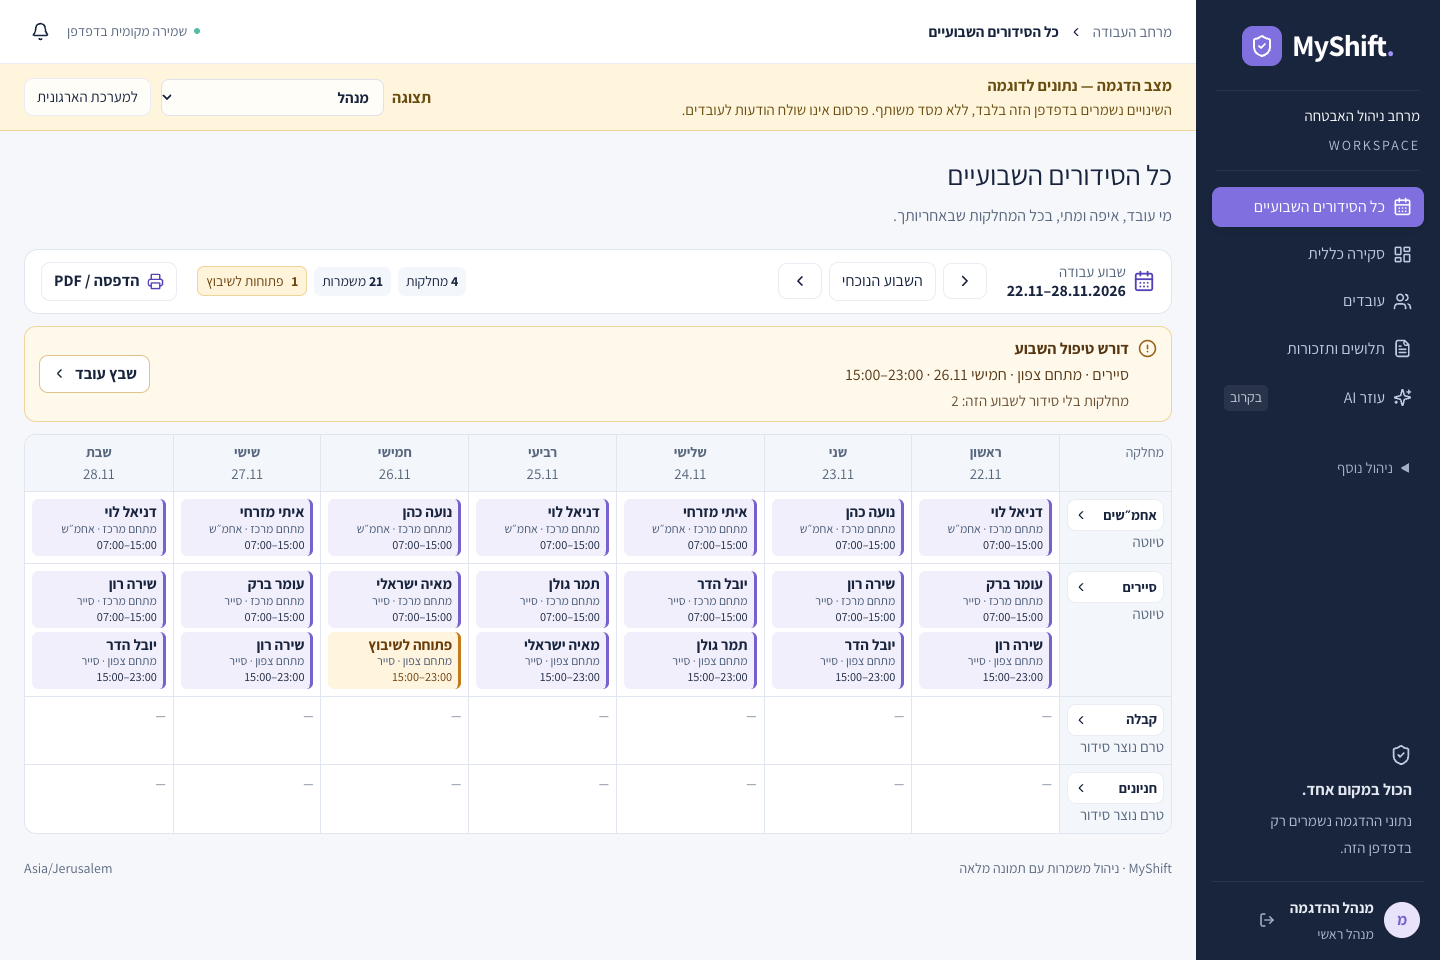
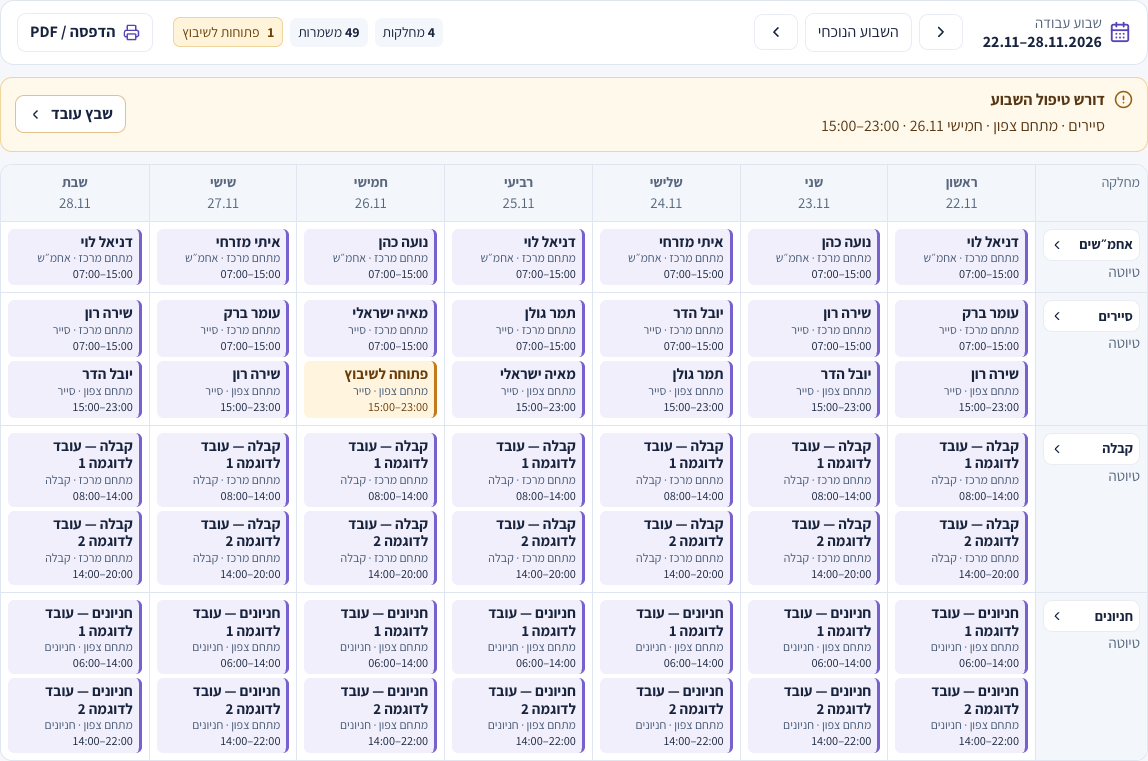
Populate demo schedules for reception and parking

diff --git a/e2e/departments.spec.ts b/e2e/departments.spec.ts
@@ -15,7 +15,10 @@ test("departments isolate workers, templates, custom overnight shifts and public
   await expect(page.locator(".shift select").first()).not.toContainText(
     "דניאל לוי",
   );
-  await tabs.getByRole("tab", { name: "חניונים", exact: true }).click();
+  const parking = page.getByRole("button", { name: "חניונים", exact: true });
+  await page.getByRole("button", { name: "חזרה ללוח השבועי", exact: true }).click();
+  await page.getByRole("button", { name: "השבוע הבא", exact: true }).click();
+  await parking.click();
   await expect(page.locator(".shift")).toHaveCount(0);
   await page.getByRole("button", { name: "הוספת משמרת", exact: true }).click();
   const dialog = page.getByRole("dialog");
@@ -41,12 +44,14 @@ test("departments isolate workers, templates, custom overnight shifts and public
   await expect(page.locator(".shift-time")).toContainText("22:00");
   await page.getByRole("button", { name: "פרסום סידור", exact: true }).click();
   await expect(page.getByText("פורסם", { exact: true })).toBeVisible();
-  await tabs.getByRole("tab", { name: "סיירים", exact: true }).click();
+  await page.getByRole("button", { name: "חזרה ללוח השבועי", exact: true }).click();
+  await page.getByRole("button", { name: "השבוע הנוכחי", exact: true }).click();
+  await page.getByRole("button", { name: "סיירים", exact: true }).click();
   await expect(page.getByText("טיוטה", { exact: true })).toBeVisible();
   await expect(page.locator(".shift")).toHaveCount(14);
   await page.setViewportSize({ width: 390, height: 844 });
   await tabs.getByRole("tab", { name: "קבלה", exact: true }).click();
-  await expect(page.locator(".shift")).toHaveCount(0);
+  await expect(page.locator(".shift")).toHaveCount(14);
   expect(
     await page.evaluate(
       () => document.documentElement.scrollWidth <= innerWidth,
@@ -55,7 +60,7 @@ test("departments isolate workers, templates, custom overnight shifts and public
   await page.screenshot({ path: "work/department-mobile.png", fullPage: true });
   await tabs.getByRole("tab", { name: "חניונים", exact: true }).click();
   await page.reload();
-  await expect(page.locator(".shift")).toHaveCount(1);
+  await expect(page.locator(".shift")).toHaveCount(14);
   await expect(
     page.getByRole("tab", { name: "חניונים", exact: true }),
   ).toHaveAttribute("aria-selected", "true");
@@ -103,6 +108,7 @@ test("managers explicitly configure separate reception hours and day-specific st
     .getByRole("navigation")
     .getByRole("button", { name: "כל הסידורים השבועיים", exact: true })
     .click();
+  await page.getByRole("button", { name: "השבוע הבא", exact: true }).click();
   await page
     .getByRole("region", { name: "לוח שבועי לכל המחלקות" })
     .getByRole("button", { name: "קבלה", exact: true })
@@ -112,7 +118,9 @@ test("managers explicitly configure separate reception hours and day-specific st
     .click();
   await expect(page.locator(".shift")).toHaveCount(2);
   await expect(page.locator(".shift-time").first()).toContainText("09:30");
-  await page.getByRole("tab", { name: "אחמ״שים", exact: true }).click();
+  await page.getByRole("button", { name: "חזרה ללוח השבועי", exact: true }).click();
+  await page.getByRole("button", { name: "השבוע הנוכחי", exact: true }).click();
+  await page.getByRole("button", { name: "אחמ״שים", exact: true }).click();
   await expect(page.locator(".shift")).toHaveCount(7);
   await expect(page.locator(".shift-time").first()).toContainText("07:00");
 });
@@ -145,6 +153,12 @@ test("organization board shows all departments across the week, flags gaps and r
     .click();
   await expect(matrix.getByRole("columnheader")).toHaveCount(8);
   await expect(matrix.getByRole("rowheader")).toHaveCount(4);
+  for (const department of ["קבלה", "חניונים"]) {
+    const row = matrix.getByRole("row").filter({
+      has: page.getByRole("button", { name: department, exact: true }),
+    });
+    await expect(row.getByRole("listitem")).toHaveCount(14);
+  }
   await expect(matrix.getByText("דניאל לוי").first()).toBeVisible();
   await expect(matrix.getByText(/מתחם מרכז/).first()).toBeVisible();
   await expect(matrix.getByText("פתוחה לשיבוץ").first()).toBeVisible();
@@ -219,7 +233,7 @@ test("a manager can fill the flagged shift and see the weekly board update", asy
   ).toHaveCount(0);
   await expect(
     board.getByRole("complementary", { name: "דורש טיפול השבוע" }),
-  ).toContainText("מחלקות בלי סידור לשבוע הזה: 2");
+  ).toHaveCount(0);
 
   const storedSchedule = () =>
     page.evaluate(() => localStorage.getItem("myshift.demo.v1"));

diff --git a/src/lib/demo.ts b/src/lib/demo.ts
@@ -1,5 +1,6 @@
 import { z } from "zod";
 import { adminSchema } from "./admin-schema";
+import { canAssign } from "./planner";
 import { isWeeklyAvailable } from "./weekly-availability";
 import { absenceInterval, isAbsence } from "./absences";
 import {
@@ -40,6 +41,7 @@ type Store = {
   data: Data;
   pending: Pending[];
   departmentsUpgraded?: boolean;
+  sampleSchedulesAdded?: boolean;
   publications?: Record<string, PublicationSnapshot>;
 };
 const rowSchema = z.object({ id: z.string() }).catchall(z.unknown());
@@ -156,7 +158,9 @@ export function seedDemo(): Store {
       created_at: new Date().toISOString(),
     },
   ];
-  return preparePublications(upgradeDemo({ schema: 1, data, pending: [] }));
+  const store = upgradeDemo({ schema: 1, data, pending: [] });
+  addSampleSchedules(store);
+  return preparePublications(store);
 }
 
 function preparePublications(store: Store): Store {
@@ -306,6 +310,92 @@ export function upgradeDemo(store: Store): Store {
   return store;
 }
 
+// Fill the week the demo opens on, once per browser. Keep user-created and
+// archived schedules, and leave scheduling templates under the manager's control.
+function addSampleSchedules(store: Store) {
+  if (store.sampleSchedulesAdded) return;
+  const { data } = store;
+  const currentWeek = sunday();
+  const weeks = data.schedule_versions.map((version) =>
+    String(version.week_start),
+  );
+  const week = weeks.includes(currentWeek) ? currentWeek : weeks.sort().at(-1);
+  store.sampleSchedulesAdded = true;
+  if (!week) return;
+
+  for (const [number, siteNumber, times] of [
+    [
+      10,
+      3,
+      [
+        ["08:00", "14:00"],
+        ["14:00", "20:00"],
+      ],
+    ],
+    [
+      11,
+      4,
+      [
+        ["06:00", "14:00"],
+        ["14:00", "22:00"],
+      ],
+    ],
+  ] as const) {
+    const department_id = fixed(number);
+    const role_id = fixed(number + 600);
+    const site_id = fixed(siteNumber);
+    if (
+      !data.departments.some(
+        (row) => row.id === department_id && row.active !== false,
+      ) ||
+      !data.roles.some(
+        (row) => row.id === role_id && row.department_id === department_id,
+      ) ||
+      !data.sites.some((row) => row.id === site_id) ||
+      data.schedule_versions.some(
+        (row) => row.department_id === department_id && row.week_start === week,
+      )
+    )
+      continue;
+
+    const version_id = uid();
+    const shifts: Assignment[] = [];
+    for (let day = 0; day < 7; day++) {
+      for (const [slot, [start, end]] of times.entries()) {
+        const shift: Assignment = {
+          id: uid(),
+          version_id,
+          department_id,
+          role_id,
+          site_id,
+          employee_id: null,
+          ...interval(addDays(week, day), start, end),
+        };
+        if (duration(shift) > Number(data.settings[0]?.max_shift_hours ?? 12))
+          continue;
+        const employee = fixed(number * 10 + 700 + slot);
+        if (
+          canAssign(data, shift, employee, [
+            ...data.shift_assignments,
+            ...shifts,
+          ])
+        )
+          shift.employee_id = employee;
+        shifts.push(shift);
+      }
+    }
+    if (!shifts.length) continue;
+    data.schedule_versions.push({
+      id: version_id,
+      department_id,
+      week_start: week,
+      status: "draft",
+      revision: 0,
+    });
+    data.shift_assignments.push(...shifts);
+  }
+}
+
 function write(store: Store) {
   try {
     localStorage.setItem(DEMO_KEY, JSON.stringify(store));
@@ -339,6 +429,7 @@ function read(): Store {
     );
     const before = JSON.stringify(store);
     upgradeDemo(store);
+    addSampleSchedules(store);
     preparePublications(store);
     if (JSON.stringify(store) !== before) write(store);
     return store;

diff --git a/tests/departments.test.ts b/tests/departments.test.ts
@@ -16,7 +16,7 @@ beforeEach(() => {
     setItem: (k: string, v: string) => storage.set(k, v),
   });
 });
-it("adds four dynamic departments without inventing unknown hours", () => {
+it("adds four demo schedules while keeping unverified templates separate", () => {
   const data = seedDemo().data;
   expect(data.departments.map((d) => d.name)).toEqual([
     "אחמ״שים",
@@ -25,6 +25,16 @@ it("adds four dynamic departments without inventing unknown hours", () => {
     "חניונים",
   ]);
   for (const dep of data.departments.slice(2)) {
+    const shifts = data.shift_assignments.filter(
+      (a) => a.department_id === dep.id,
+    );
+    expect(shifts).toHaveLength(14);
+    expect(
+      shifts.every(
+        (shift) =>
+          shift.employee_id && canAssign(data, shift, shift.employee_id),
+      ),
+    ).toBe(true);
     expect(
       data.employees.filter((e) =>
         data.employee_departments.some(
@@ -203,4 +213,35 @@ it("does not let a past availability submission block future weeks", () => {
     ends_at: new Date(Date.parse(base.ends_at) + 14 * 86400000).toISOString(),
   };
   expect(canAssign(data, next, base.employee_id!)).toBe(true);
+});
+
+it("adds missing sample schedules once without overwriting a saved archive or existing shifts", () => {
+  const store = seedDemo();
+  delete store.sampleSchedulesAdded;
+  const reception = store.data.departments[2].id;
+  const parking = store.data.departments[3].id;
+  const archived = store.data.schedule_versions.find(
+    (v) => v.department_id === reception,
+  )!;
+  archived.status = "archived";
+  store.data.schedule_versions = store.data.schedule_versions.filter(
+    (v) => v.department_id !== parking,
+  );
+  store.data.shift_assignments = store.data.shift_assignments.filter(
+    (shift) => shift.department_id !== parking,
+  );
+  store.data.shift_assignments[0].employee_id = null;
+  storage.set(DEMO_KEY, JSON.stringify(store));
+
+  const data = loadDemo();
+  expect(
+    data.schedule_versions.filter((v) => v.department_id === reception),
+  ).toEqual([archived]);
+  expect(
+    data.shift_assignments.slice(0, store.data.shift_assignments.length),
+  ).toEqual(store.data.shift_assignments);
+  expect(
+    data.shift_assignments.filter((shift) => shift.department_id === parking),
+  ).toHaveLength(14);
+  expect(loadDemo()).toEqual(data);
 });

diff --git a/e2e/demo.spec.ts b/e2e/demo.spec.ts
@@ -603,7 +603,7 @@ test("overview gives clear weekly actions and takes managers directly to the rig
   await expect(page.locator(".ai-promo")).toHaveCount(0);
   await expect(
     page.getByRole("article", { name: "קבלה", exact: true }),
-  ).toContainText("יש להגדיר שעות");
+  ).toContainText("בדיקה ופרסום");
   await page.screenshot({ path: "work/overview-desktop.png", fullPage: true });
   await page
     .locator(".overview-metrics")

diff --git a/tests/overview.test.ts b/tests/overview.test.ts
@@ -33,8 +33,9 @@ it("distinguishes open assignments, coverage requirements and weeks that have no
   const rows = buildDepartmentOverview(data, week, data.departments);
   expect(rows[1]).toMatchObject({ total: 14, open: 1, shortage: 1 });
   expect(rows[2]).toMatchObject({
-    total: 0,
-    status: "missing",
+    total: 14,
+    staffed: 14,
+    status: "draft",
     configured: false,
   });
   const future = buildDepartmentOverview(

diff --git a/README.md b/README.md
@@ -12,6 +12,8 @@
 
 [צילום הלוח במחשב](docs/screenshots/home-schedule-desktop.png) · [צילום הלוח בטלפון](docs/screenshots/home-schedule-mobile.png)
 
+בכניסה לדמו כמנהל, הלוח השבועי מציג 49 משמרות דוגמה בארבע המחלקות, ובהן משמרת פתוחה אחת בסיירים לתרגול שיבוץ. דמו שכבר נשמר בדפדפן מקבל פעם אחת את סידורי הדוגמה החסרים לקבלה ולחניונים בשבוע שמוצג בכניסה. [צילום לוח הדמו בטלפון](docs/screenshots/roster-mobile.png).
+
 ## מה אפשר לעשות במערכת
 
 | מסך | שימוש |
